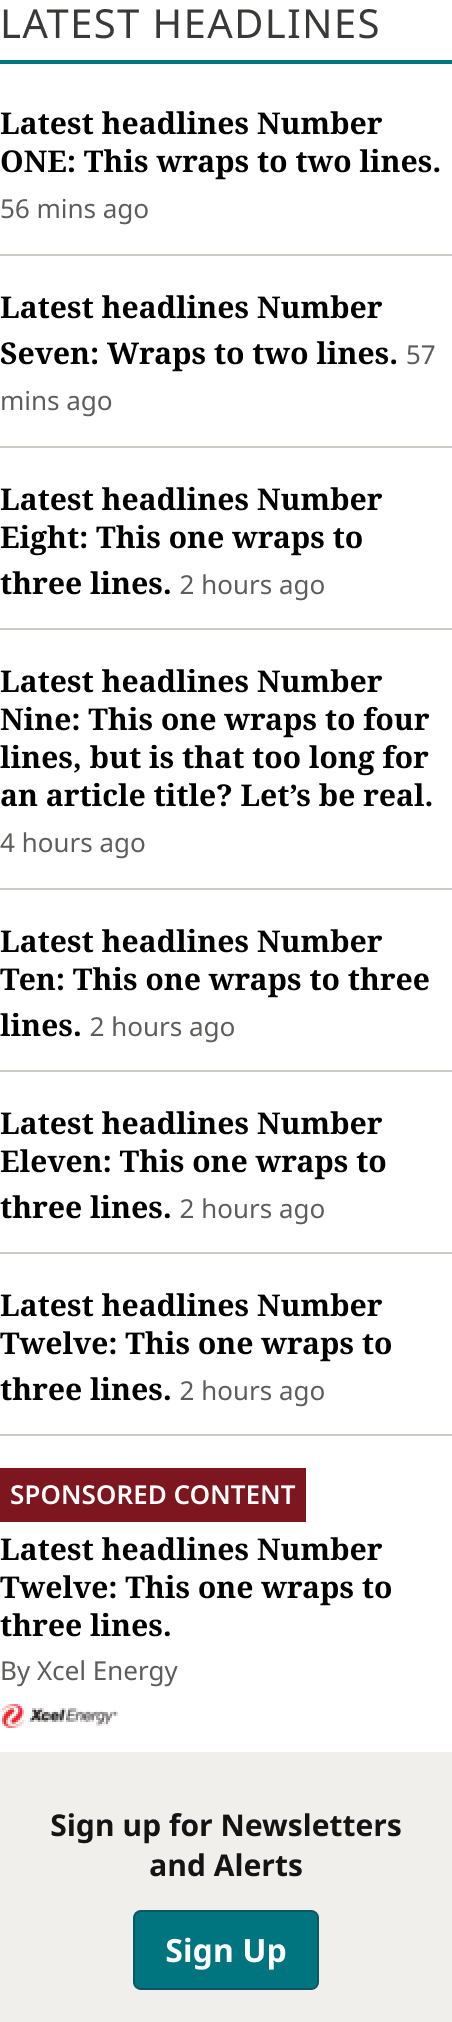
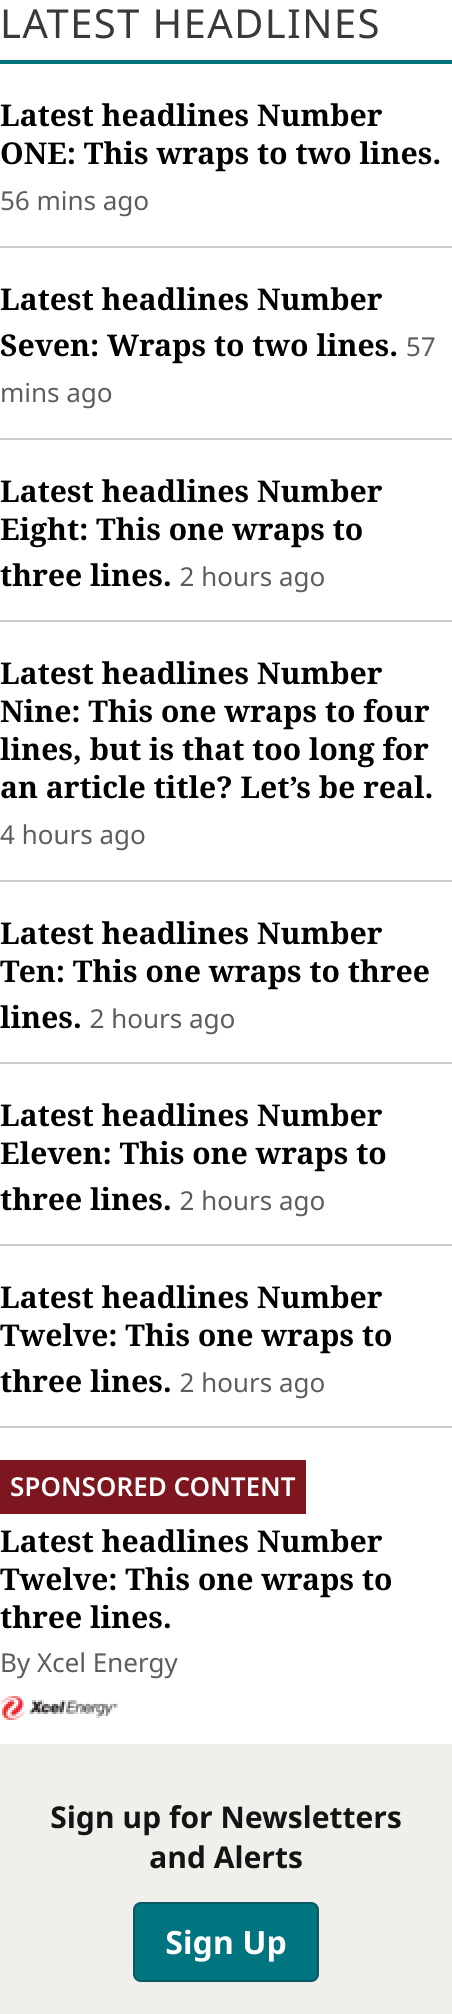
Latest Headlines title gap 16px; components match production on the 4/8 grid
Karl: the title-to-list gap is 16px (spacing/200) on every theme
(production 15 / 17 / 21 by theme, logged in design-vs-production 16.5
and the sheet). CLAUDE.md: components match production, rounded to the
nearest multiple of 4 / 8 and its token (replaces the 2026-10-23
rounding rule); spacing tokens are multiples of 4 and 8. Latest
Headlines re-exported; Claude component notes updated.

Claude-Session: https://claude.ai/code/session_012ti5sVuE9hNj6t6sDLfDhM

diff --git a/components/wordpress/latest-headlines/latest-headlines.html b/components/wordpress/latest-headlines/latest-headlines.html
@@ -17,10 +17,10 @@
 <h1>Latest Headlines</h1>
 <p class="mng-intro">Every variant of the Figma set <code>Latest Headlines</code>. Theme: Bold Coastal (swap the theme stylesheet to preview another theme). Icons are placeholders.</p>
 <section class="mng-variant" data-variant="XS (≤639px)">
-  <h2>XS (≤639px) <small>340×833 · <a href="https://www.figma.com/design/b1iZxkFwtAYq9rElmnCAzd/?node-id=3476-62139">Figma 3476:62139</a></small></h2>
+  <h2>XS (≤639px) <small>340×829 · <a href="https://www.figma.com/design/b1iZxkFwtAYq9rElmnCAzd/?node-id=3476-62139">Figma 3476:62139</a></small></h2>
   <div class="mng-variant__stage">
     <div class="mng-latest-headlines__device-xs-639px" data-layer="Device=XS (≤639px)" style="display:flex;flex-direction:column;gap:0px;padding:0px 0px 0px 0px;justify-content:flex-start;align-items:flex-start;width:340px;background:var(--mng-color-gray-max, #ffffff)">
-      <div class="mng-latest-headlines__header-container" data-layer="Header Container" style="display:flex;flex-direction:column;gap:var(--mng-spacing-100, 8px);padding:0px 0px var(--mng-font-theme-eyebrow-size, 20px) 0px;justify-content:flex-start;align-items:flex-start;align-self:stretch;background:var(--mng-color-gray-max, #ffffff)">
+      <div class="mng-latest-headlines__header-container" data-layer="Header Container" style="display:flex;flex-direction:column;gap:var(--mng-spacing-100, 8px);padding:0px 0px var(--mng-spacing-200, 16px) 0px;justify-content:flex-start;align-items:flex-start;align-self:stretch;background:var(--mng-color-gray-max, #ffffff)">
         <!-- instance of Section Title / Eyebrow (Style=Underline), Figma node 3326:41622 -->
         <span class="mng-instance mng-latest-headlines__section-title-eyebrow" data-component="Section Title / Eyebrow" data-variant="Style=Underline" aria-hidden="true" style="display:flex;flex-direction:column;gap:var(--mng-spacing-100, 8px);padding:0px 0px 0px 0px;justify-content:flex-start;align-items:flex-start;align-self:stretch;height:32px;flex-shrink:0;display:inline-flex;align-items:center;justify-content:center;font-size:32px;color:var(--mng-color-gray-100, #393938)">◻</span>
       </div>
@@ -48,10 +48,10 @@
   </div>
 </section>
 <section class="mng-variant" data-variant="S (640–799px)">
-  <h2>S (640–799px) <small>748×669 · <a href="https://www.figma.com/design/b1iZxkFwtAYq9rElmnCAzd/?node-id=3476-62152">Figma 3476:62152</a></small></h2>
+  <h2>S (640–799px) <small>748×665 · <a href="https://www.figma.com/design/b1iZxkFwtAYq9rElmnCAzd/?node-id=3476-62152">Figma 3476:62152</a></small></h2>
   <div class="mng-variant__stage">
     <div class="mng-latest-headlines__device-s-640-799px" data-layer="Device=S (640–799px)" style="display:flex;flex-direction:column;gap:0px;padding:0px 0px 0px 0px;justify-content:flex-start;align-items:flex-start;width:748px;background:var(--mng-color-gray-max, #ffffff)">
-      <div class="mng-latest-headlines__header-container" data-layer="Header Container" style="display:flex;flex-direction:column;gap:var(--mng-spacing-100, 8px);padding:0px 0px var(--mng-font-theme-eyebrow-size, 20px) 0px;justify-content:flex-start;align-items:flex-start;align-self:stretch;background:var(--mng-color-gray-max, #ffffff)">
+      <div class="mng-latest-headlines__header-container" data-layer="Header Container" style="display:flex;flex-direction:column;gap:var(--mng-spacing-100, 8px);padding:0px 0px var(--mng-spacing-200, 16px) 0px;justify-content:flex-start;align-items:flex-start;align-self:stretch;background:var(--mng-color-gray-max, #ffffff)">
         <!-- instance of Section Title / Eyebrow (Style=Underline), Figma node 3326:41622 -->
         <span class="mng-instance mng-latest-headlines__section-title-eyebrow" data-component="Section Title / Eyebrow" data-variant="Style=Underline" aria-hidden="true" style="display:flex;flex-direction:column;gap:var(--mng-spacing-100, 8px);padding:0px 0px 0px 0px;justify-content:flex-start;align-items:flex-start;align-self:stretch;height:32px;flex-shrink:0;display:inline-flex;align-items:center;justify-content:center;font-size:32px;color:var(--mng-color-gray-100, #393938)">◻</span>
       </div>
@@ -79,10 +79,10 @@
   </div>
 </section>
 <section class="mng-variant" data-variant="(≥800px)">
-  <h2>(≥800px) <small>226×1011 · <a href="https://www.figma.com/design/b1iZxkFwtAYq9rElmnCAzd/?node-id=3476-62164">Figma 3476:62164</a></small></h2>
+  <h2>(≥800px) <small>226×1007 · <a href="https://www.figma.com/design/b1iZxkFwtAYq9rElmnCAzd/?node-id=3476-62164">Figma 3476:62164</a></small></h2>
   <div class="mng-variant__stage">
     <div class="mng-latest-headlines__device-800px" data-layer="Device=(≥800px)" style="display:flex;flex-direction:column;gap:0px;padding:0px 0px 0px 0px;justify-content:flex-start;align-items:flex-start;width:226px;background:var(--mng-color-gray-max, #ffffff)">
-      <div class="mng-latest-headlines__header-container" data-layer="Header Container" style="display:flex;flex-direction:column;gap:0px;padding:0px 0px var(--mng-font-theme-eyebrow-size, 20px) 0px;justify-content:flex-start;align-items:flex-start;align-self:stretch;overflow:hidden">
+      <div class="mng-latest-headlines__header-container" data-layer="Header Container" style="display:flex;flex-direction:column;gap:0px;padding:0px 0px var(--mng-spacing-200, 16px) 0px;justify-content:flex-start;align-items:flex-start;align-self:stretch;overflow:hidden">
         <!-- instance of Section Title / Eyebrow (Style=Underline), Figma node 3326:41622 -->
         <span class="mng-instance mng-latest-headlines__section-title-eyebrow" data-component="Section Title / Eyebrow" data-variant="Style=Underline" aria-hidden="true" style="display:flex;flex-direction:column;gap:var(--mng-spacing-100, 8px);padding:0px 0px 0px 0px;justify-content:flex-start;align-items:flex-start;align-self:stretch;height:32px;flex-shrink:0;display:inline-flex;align-items:center;justify-content:center;font-size:32px;color:var(--mng-color-gray-100, #393938)">◻</span>
       </div>

diff --git a/scripts/claude-design-system/src/components/LatestHeadlines/component.js b/scripts/claude-design-system/src/components/LatestHeadlines/component.js
@@ -1,7 +1,7 @@
 /* Latest Headlines (WordPress Elements, Homepage, 3476:62396): the Zone 1 Latest Headlines rail, built to match production
    (`.busy .headline-list`, Karl 2026-10-30). Section Title / Eyebrow (Underline, no chevron), then a ul of Latest Headlines
    List Items (First, Standard..., Sponsored) and Newsletter Signup, 12px (spacing/150) apart. Title to the first item is
-   font/theme/eyebrow-size. One column at every width; Device only sets production's XS cap (540px, centered).
+   16px (spacing/200). One column at every width; Device only sets production's XS cap (540px, centered).
    Device values are production's breakpoints for this list: XS (639px and below), S (640-799px), (≥800px) (the side column
    beside the Zone 1 lead). Newsletter Signup is drawn by NewsletterSignup once it is in the system; until then a labeled
    placeholder holds its place. */

diff --git a/scripts/claude-design-system/src/components/LatestHeadlines/component.css b/scripts/claude-design-system/src/components/LatestHeadlines/component.css
@@ -7,7 +7,7 @@
 .mngds-latest-headlines *, .mngds-latest-headlines *::before, .mngds-latest-headlines *::after { box-sizing: border-box; }
 /* XS (639px and below): production caps the list at 33.75em (540px) and centers it. No token for this width. */
 .mngds-latest-headlines--xs { max-width: 540px; margin-left: auto; margin-right: auto; }
-/* Title to the first item = the theme's eyebrow size (15 / 17 / 21 in production; the token gives Bold Coastal 20). */
+/* Title to the first item: 16px (spacing/200) on every theme (production 15 / 17 / 21 by theme; Karl, 2026-10-30). */
 .mngds-latest-headlines__header {
   background: var(--mng-latest-headlines-base-header-container-background);
   padding-bottom: var(--mng-latest-headlines-base-header-container-padding-bottom);

diff --git a/MNG-Web-Design-System-Status.md b/MNG-Web-Design-System-Status.md
@@ -183,7 +183,7 @@ The component specs in `components/` (modal, disclosure, empty-state-status-badg
    - **P2, TopZone Article Card done 2026-10-30:** Figma: the unbound 8 / 16 / 20px spacing bound to `spacing/100`, `200`, `250`; the 15px headline-group gap **kept raw on purpose** (Karl, 2026-10-30: no token for it; it only shows when the Article Status Badge is on); the Mobile headline's family bound to `font/theme/heading-family`; white container updated (description, 1024 / 1100 column labels, Specifications). Exported to `components/wordpress/topzone-article-card/`; `TopZoneArticleCard` in Claude. Flags: (h) the Device values (Desktop, 1024, 1100, Mobile) aren't the official breakpoints and Figma doesn't say which viewport each applies at; (i) the Article Status Badge is hidden in every variant with no property to show it (Desktop / 1024 hold Type = Sponsored outside the headline group, Mobile / 1100 Type = None inside it).
    - **Decided ahead (Karl, 2026-10-30):** Newsletter Signup's 10px padding above and below the heading (Heading Container on Desktop, Text Container on Mobile; a tie between 8 and 12) stays raw. Latest Headlines and its list item have no off-token values.
    - **Breakpoints decided (Karl, 2026-10-30):** components keep production's own breakpoints for now, documented as they are (not snapped, not drift); `Device` values are named by the range they cover (grid letter when it's exactly a grid tier, e.g. `M (800–1039px)`); each component's breakpoint table also records the MNG Device breakpoint each range will move to later (not adopted yet). Rules in `CLAUDE.md`; `EXPORT-STANDARD.md` §6 change in a pull request for Karl. First applied to the TopZone Article Card (Desktop / 1024 / 1100 / Mobile renamed XL / M / L / XS; production also has a 640–799px layout with no variant, and its L image is 25% in CSS vs 55% in Figma, not measured live). Existing sets (Masthead family, cards, blocks) get renamed when we come back to them (Karl, 2026-10-30). **All production breakpoints are now in one place** (Karl): `components/breakpoint-audit.md`, "All production breakpoints in one place"; drift doc entries 8, 27 and 34 moved there (numbers kept as pointers, sheet rows say Moved). `tokens/breakpoint-inventory.json` still tags those values `drift`; reclassify when standardization starts. **TopZone S variant added 2026-10-30** (Karl): measured live on ocregister.com at 700px (Karl resized the window): two per row, card 330, image 97×54, 20px gap, 16/18.88, bottom rule; built in Figma, exported, in Claude (`device: 'S'`). The L check at 1100px matched Figma (280×157, 20px, 18/21.6). Production differences logged as design-vs-production 16.4 (headline #000000, S rule #AAA7A4, photos letterboxed at their own proportions; sheet row added).
-   - **P2, Latest Headlines + Latest Headlines List Item done 2026-10-30.** **Karl's rule for these (2026-10-30): components in Figma, and so in Claude, match production; where a value has a token, use the nearest existing token (the rounding rule stays).** Checked on all 6 review sites (CSS + computed styles at 1728px; ocregister.com at 700px, Karl resized the window). Figma: the S variant's items and Newsletter Signup now fill the 748 frame (were stuck at 340); title-to-list gap = `font/theme/eyebrow-size` (production 17 / 21 on Measured Vibrant / Modern Earthy; 15 on Bold Coastal, logged); items in a `List` frame 12px (`spacing/150`) apart; the time now sits inline after the headline in one "Headline and Time" text layer (all 98 instances re-filled with their own text); `Editorial/Titles/AdditionalHeadline` bound to `font/theme/heading-family` with a 19px line height (also used by 39 Section Front template layers); headline `color/gray/black`; unbound 4 / 8 / 12 / 16px bound to spacing tokens; Device renamed `XS (≤639px)`, `S (640–799px)`, `(≥800px)`; containers updated (description, column labels, Specifications). Production's headline CSS weight 600 renders Bold (only the 400 and 700 faces load), so Bold stays. Exported to `components/wordpress/latest-headlines/` and `latest-headlines-list-item/`; `LatestHeadlines` and `LatestHeadlinesListItem` in Claude (Newsletter Signup is a labeled placeholder there until step 3; it switches automatically once `NewsletterSignup` exists). Breakpoints added to `components/breakpoint-audit.md`. Still different in production: design-vs-production 16.5 (Bold Coastal title gap, per-theme rule color, CSS weight), sheet row added. chicagotribune.com was reachable in Chrome this time.
+   - **P2, Latest Headlines + Latest Headlines List Item done 2026-10-30.** **Karl's rule (2026-10-30, now in CLAUDE.md): components in Figma, and so in Claude, match production, rounded to the nearest multiple of 4 / 8 and its token; spacing tokens are multiples of 4 and 8.** Checked on all 6 review sites (CSS + computed styles at 1728px; ocregister.com at 700px, Karl resized the window). Figma: the S variant's items and Newsletter Signup now fill the 748 frame (were stuck at 340); title-to-list gap 16px (`spacing/200`) on every theme (production 15 / 17 / 21 by theme, logged; Karl); items in a `List` frame 12px (`spacing/150`) apart; the time now sits inline after the headline in one "Headline and Time" text layer (all 98 instances re-filled with their own text); `Editorial/Titles/AdditionalHeadline` bound to `font/theme/heading-family` with a 19px line height (also used by 39 Section Front template layers); headline `color/gray/black`; unbound 4 / 8 / 12 / 16px bound to spacing tokens; Device renamed `XS (≤639px)`, `S (640–799px)`, `(≥800px)`; containers updated (description, column labels, Specifications). Production's headline CSS weight 600 renders Bold (only the 400 and 700 faces load), so Bold stays. Exported to `components/wordpress/latest-headlines/` and `latest-headlines-list-item/`; `LatestHeadlines` and `LatestHeadlinesListItem` in Claude (Newsletter Signup is a labeled placeholder there until step 3; it switches automatically once `NewsletterSignup` exists). Breakpoints added to `components/breakpoint-audit.md`. Still different in production: design-vs-production 16.5 (title gap 15 / 17 / 21 vs 16, per-theme rule color, CSS weight), sheet row added. chicagotribune.com was reachable in Chrome this time.
    - **Next:** P2: Newsletter Signup, Most Popular List Item + Blueconic Block, Section Rail Card + Feature + List Content Block, Photos Block, TOP ZONE Block.
 
 20. **Theme fonts on the article cards** (Karl, 2026-10-30, from the For You MVP's theme switcher). The three themes differ in fonts only here: `font/theme/heading-family` and `body-family` (Noto Serif / Noto Sans in Bold Coastal and Measured Vibrant, swapped in Modern Earthy), `small-headline-family` (Noto Serif only in Measured Vibrant) and the eyebrow. So between Bold Coastal and Measured Vibrant only the eyebrow and the small headlines change; Modern Earthy changes headlines and excerpts.

diff --git a/components/wordpress/latest-headlines/latest-headlines.md b/components/wordpress/latest-headlines/latest-headlines.md
@@ -32,16 +32,16 @@ exported: 2026-10-30
 
 | Variant | Size | Node | Instances | Preview |
 |---|---|---|---|---|
-| `XS (≤639px)` | 340×833 | [3476:62139](https://www.figma.com/design/b1iZxkFwtAYq9rElmnCAzd/?node-id=3476-62139) | 3 | ![](previews/latest-headlines--xs-639px.png) |
-| `S (640–799px)` | 748×669 | [3476:62152](https://www.figma.com/design/b1iZxkFwtAYq9rElmnCAzd/?node-id=3476-62152) | 2 | ![](previews/latest-headlines--s-640-799px.png) |
-| `(≥800px)` | 226×1011 | [3476:62164](https://www.figma.com/design/b1iZxkFwtAYq9rElmnCAzd/?node-id=3476-62164) | 6 | ![](previews/latest-headlines--800px.png) |
+| `XS (≤639px)` | 340×829 | [3476:62139](https://www.figma.com/design/b1iZxkFwtAYq9rElmnCAzd/?node-id=3476-62139) | 3 | ![](previews/latest-headlines--xs-639px.png) |
+| `S (640–799px)` | 748×665 | [3476:62152](https://www.figma.com/design/b1iZxkFwtAYq9rElmnCAzd/?node-id=3476-62152) | 2 | ![](previews/latest-headlines--s-640-799px.png) |
+| `(≥800px)` | 226×1007 | [3476:62164](https://www.figma.com/design/b1iZxkFwtAYq9rElmnCAzd/?node-id=3476-62164) | 6 | ![](previews/latest-headlines--800px.png) |
 
 ## Anatomy
 
 Default variant `XS (≤639px)` (hidden layers marked):
 
-- **Device=XS (≤639px)** `COMPONENT`: 340×833, vertical, gap 0, padding 0/0/0/0, fixed×hug
-  - **Header Container** `FRAME`: 340×52, vertical, gap 8, padding 0/0/20/0, fill×hug
+- **Device=XS (≤639px)** `COMPONENT`: 340×829, vertical, gap 0, padding 0/0/0/0, fixed×hug
+  - **Header Container** `FRAME`: 340×48, vertical, gap 8, padding 0/0/16/0, fill×hug
     - **Section Title / Eyebrow** `INSTANCE`: 340×32, vertical, gap 8, padding 0/0/0/0, fill×hug, instance of Section Title / Eyebrow (Style=Underline)
   - **List** `FRAME`: 340×781, vertical, gap 12, padding 0/0/0/0, fill×hug
     - **Latest Headlines List Item** `INSTANCE`: 340×44, vertical, gap 4, padding 0/0/0/0, fill×hug, instance of Latest Headlines List Item (Type=First)
@@ -61,7 +61,7 @@ From `latest-headlines.tokens.json`. References point at system tokens (`tokens/
 | Token | Value |
 |---|---|
 | `latest-headlines.base.header-container.background` | `{color.gray.max}` |
-| `latest-headlines.base.header-container.padding-bottom` | `{font.theme.eyebrow-size}` |
+| `latest-headlines.base.header-container.padding-bottom` | `{spacing.200}` |
 | `latest-headlines.base.header-container.section-title-eyebrow.height` | 32px |
 | `latest-headlines.base.header-container.section-title-eyebrow.icon-color` | `{color.gray.100}` |
 | `latest-headlines.base.list.gap` | `{spacing.150}` |
@@ -95,12 +95,12 @@ From `latest-headlines.tokens.json`. References point at system tokens (`tokens/
 | (≥800px), L (1040–1279px) | `wordpress-grid.l` | Side column, 30.77% − 13.92px | 226px (TOP ZONE Block 219) | Tablet landscape (1024–1279) |
 | (≥800px), XL (≥1280px) | `wordpress-grid.xl` | Side column, 25% − 15px (224px) | 226px | Desktop (1280 and up) |
 
-- **Matches production** (Karl, 2026-10-30: components match production; where a value has a token, use the nearest existing token). CSS and live measurements on all 6 review sites 2026-10-30.
+- **Matches production** (Karl, 2026-10-30: components match production, rounded to the nearest multiple of 4 / 8 and its token). CSS and live measurements on all 6 review sites 2026-10-30.
 - **Breakpoints are production's, for this component** (Karl, 2026-10-30): each Device value is named by the range it covers (`XS (≤639px)`, `S (640–799px)`, `(≥800px)`); the width a variant is drawn at is a note, not a breakpoint. The list is one column at every width. Production CSS `.busy .headline-list` at 640 / 800 / 1040 / 1280px, the same on all 6 review sites (scan 2026-10-30, `components/breakpoint-audit.md`).
 - **XS** (639px and below, built 340): full width of the page. Production caps it at 540px (33.75em) and centers it.
 - **S** (640–799px, built 748): full width of the column. The items and Newsletter Signup fill the variant (fixed 2026-10-30, Karl: they were stuck at 340), as production does (680px wide on ocregister.com at a 700px window).
 - **(≥800px)** (built 226): the side column beside the Zone 1 lead. Production width `calc(40% - 0.75rem)` at 800–1039, `calc(30.7692% - 0.87rem)` at 1040–1279 and `calc(25% - 0.94rem)` at 1280 and up (224px). TOP ZONE Block draws it at 252 (1024) and 219 (1100). Everything inside fills the width.
-- **Title:** Section Title / Eyebrow, Style = Underline. Title to the first item is `font/theme/eyebrow-size`, the Header Container's bottom padding (Karl, 2026-10-30: nearest existing token). Production uses `margin-bottom` on the title: 17px on Measured Vibrant and 21px on Modern Earthy (1em, which the token matches) but 15px on Bold Coastal, where the token gives 20 (design-vs-production 16.5). Figma draws Bold Coastal's 20. Before 2026-10-30 Figma had 16px (XS, S) and 12px (≥800).
+- **Title:** Section Title / Eyebrow, Style = Underline. Title to the first item is 16px (`spacing/200`), the Header Container's bottom padding (Karl, 2026-10-30): production uses the title's `margin-bottom`, measured 15px on Bold Coastal, 17px on Measured Vibrant and 21px on Modern Earthy; 16 is the nearest multiple of 4 / 8 with a token (design-vs-production 16.5). Before 2026-10-30 Figma had 16px (XS, S) and 12px (≥800).
 - **List:** 12px (`spacing/150`) between the items and before Newsletter Signup (the `List` frame); Standard and Sponsored items draw their own top rule. Production: `margin-top: 12px` on every `li` after the first.
 - **Contrast** is in the parts: headline 21:1 and time 6.6:1 (Latest Headlines List Item), eyebrow `color/gray/100` 11.6:1 (Section Title / Eyebrow).
 
@@ -127,7 +127,7 @@ Production homepage Zone 1 `.feature-primary.busy .headline-list` (`div.headline
 
 1. One variant, `(≥800px)`, covers three production ranges whose only difference is the column width (the list is the same).
 2. Below 640px production caps the list at 540px; the XS variant is drawn at 340.
-3. Bold Coastal: production's title-to-list gap is 15px; `font/theme/eyebrow-size` gives 20 (design-vs-production 16.5).
+3. Production's title-to-list gap is 15 / 17 / 21px by theme; the design is 16px (`spacing/200`) on every theme (design-vs-production 16.5).
 4. Newsletter Signup instances keep their component's fixed 135px height (next in the P2 list).
 5. The eyebrow's production color and underline differ (design-vs-production 14).
 6. **Values not bound to a token** (literal in the component tokens): `base` list.latest-headlines-list-item icon-color = #7d161e.

diff --git a/CLAUDE.md b/CLAUDE.md
@@ -1,6 +1,6 @@
 # MNG Web Design System — instructions for Claude
 
-> **Updated 2026-10-30** for component breakpoints (follow production for now, record the future Device breakpoint; Exports) and the Weather Bug Helvetica exception (Figma files). **2026-10-27** for Seth's issue #7 (Exports: Figma snapshot, checks, colors stay as of 2026-10-19, CRUX). **2026-10-23:** moved here from the Claude project instructions and merged with section 7 ("Standing rules") of `MNG-Web-Design-System-Status.md`, so the rules live in one place, in the repo. This file is the source of truth for how to work in this project. Change a rule here; the project instructions only point to this file.
+> **Updated 2026-10-30 (latest)** for components matching production on the 4 / 8 grid and spacing tokens in multiples of 4 and 8 (Design vs. production). **Earlier, 2026-10-30,** for component breakpoints (follow production for now, record the future Device breakpoint; Exports) and the Weather Bug Helvetica exception (Figma files). **2026-10-27** for Seth's issue #7 (Exports: Figma snapshot, checks, colors stay as of 2026-10-19, CRUX). **2026-10-23:** moved here from the Claude project instructions and merged with section 7 ("Standing rules") of `MNG-Web-Design-System-Status.md`, so the rules live in one place, in the repo. This file is the source of truth for how to work in this project. Change a rule here; the project instructions only point to this file.
 
 We are building a full design system based on in-production websites in our footprint.
 
@@ -49,7 +49,8 @@ We are building a full design system based on in-production websites in our foot
 ## Design vs. production
 
 - Design (Figma) is the source of truth. Tokens always carry design spec values. Never change a token to match production. Mark the gap in Figma with the red-dashed outline and log it in `design-vs-production.md`.
-- No off-token values in new components (Karl, 2026-10-23). When production uses a value that has no token (spacing, letter spacing and so on; breakpoints are the exception, see Exports), round it to the nearest existing Figma token, and log the production value in `design-vs-production.md` so production can be updated to match. On a tie, ask Karl.
+- **Components match production, on the 4 / 8 grid** (Karl, 2026-10-30; replaces the 2026-10-23 rounding rule). Build each component's values to match production (checked on all 6 review sites). When a production value isn't a multiple of 4 (spacing, padding, gaps, sizes and so on; breakpoints are the exception, see Exports), round it to the nearest multiple of 4 or 8 and use that value's token; log the production value in `design-vs-production.md` so production can be updated to match. Example: the Latest Headlines title gap is 15 / 17 / 21px by theme in production and 16px (`spacing/200`) in the design. On a tie (10px is as close to 8 as to 12), ask Karl. Values that already have a decided exception stay as decided (TopZone's 15px headline-group gap, Newsletter Signup's 10px heading padding).
+- **Spacing tokens are multiples of 4 and 8** (Karl, 2026-10-30): today `spacing/050` 4 through `spacing/500` 40. A component that needs a multiple of 4 with no token yet gets a new token (a value change: `review/...` branch and pull request), never a raw value.
 - Colors: use the closest existing MNG color or gray. Text must pass WCAG AA (4.5:1); if the closest gray doesn't, use the closest one that does.
 - Always check contrast (Karl, 2026-10-27; narrowed the same day). It applies to what ships: designed components, color tokens and the style guides that show them. It does not apply to documentation annotations (spec-list text, the green / magenta spec colors, markers, row and column labels in doc containers). Whenever you add or change text, or a color behind text, in a component, a color token or a style guide, in Figma or in code, compute the WCAG contrast ratio before you finish and report it. Normal text needs 4.5:1; large text (24px+, or 18.66px+ bold) needs 3:1. Measure against the nearest solid background actually behind the text. Text on a color chip uses Gray-Min (`color/gray/min`) or Gray-Max (`color/gray/max`), whichever passes; if neither passes, use `color/gray/black`. Bind text fills to the gray variables, never raw hex. If a color you're documenting can't pass with any gray, flag it to Karl.
 - Karl calls `design-vs-production.md` "the drift doc" (2026-10-27); the file name stays.

diff --git a/design-vs-production.md b/design-vs-production.md
@@ -1534,20 +1534,20 @@ Sizes, gaps and type otherwise match Figma at both widths (L: 507 card, 280×157
 
 **Status:** Open. Added 2026-10-30.
 
-### 16.5 Latest Headlines (Zone 1 headline list) — title gap on Bold Coastal, rule color and headline weight
+### 16.5 Latest Headlines (Zone 1 headline list) — title gap, rule color and headline weight
 
 **Found:** 2026-10-30, CSS and computed styles on all 6 review sites at 1728px, and on ocregister.com at 700px (Karl resized the window). The `.busy .headline-list` rules are identical on all 6. **Team:** CMS. Figma: WordPress Elements ▸ Homepage ▸ Latest Headlines (`3476:62396`) and Latest Headlines List Item (`3336:46118`).
 
-**Design:** built to match production (Karl, 2026-10-30), with the nearest existing token where one exists. Figma was changed the same day: time inline after the headline, headline 15 / 19px in `color/gray/black`, the S (640–799px) variant full width, title-to-list gap `font/theme/eyebrow-size`.
+**Design:** built to match production (Karl, 2026-10-30), with values rounded to the nearest multiple of 4 / 8 and its token. Figma was changed the same day: time inline after the headline, headline 15 / 19px in `color/gray/black`, the S (640–799px) variant full width, title-to-list gap 16px (`spacing/200`) on every theme.
 
 **Production (still different):**
-- **Title to the first item, Bold Coastal:** `margin-bottom: 15px` on the 20px title (ocregister, denverpost). The design is `font/theme/eyebrow-size` (20px on Bold Coastal); Measured Vibrant (17px) and Modern Earthy (21px) already match.
+- **Title to the first item:** the title's `margin-bottom` is 15px on Bold Coastal (ocregister, denverpost), 17px on Measured Vibrant (chicagotribune, orlandosentinel) and 21px on Modern Earthy (mcall, canoncitydailyrecord). The design is 16px (`spacing/200`) on every theme.
 - **Rule between items:** #D7D6D2 (Bold Coastal), #C8C4C0 (Measured Vibrant), #DDD8D5 (Modern Earthy). The design is `color/gray/500` (#CCCAC7). The Bold Coastal value is also entry 3 (`--site-branding-gray-500`).
 - **Headline weight:** CSS `font-weight: 600`, but the sites load only the 400 and 700 faces of Noto Sans and Noto Serif, so it renders Bold. The design is Bold (`font/weight/bold`).
 
 Everything else matches: one column at every width (capped at 540px below 640px, full width at 640–799px, a 40% / 30.77% / 25% side column from 800px), 12px between items, 1px top rule with 16px below it, headline 15 / 19px #000000 in the theme heading family, time Noto Sans 13 #5D5B5A inline after the headline.
 
-**Fix:** set the Bold Coastal title margin to the eyebrow size (20px) or confirm 15px is intended; set the rule to `color/gray/500`; set the headline weight to 700 (or load a 600 face and confirm the lighter weight is wanted).
+**Fix:** set `.headline-list-title` `margin-bottom` to 16px on every theme; set the rule to `color/gray/500`; set the headline weight to 700 (or load a 600 face and confirm the lighter weight is wanted).
 
 **Status:** Open. Added 2026-10-30.
 

diff --git a/scripts/claude-design-system/src/components/LatestHeadlines/notes.md b/scripts/claude-design-system/src/components/LatestHeadlines/notes.md
@@ -1,6 +1,6 @@
-- **Built to match production** (Karl, 2026-10-30): CSS `.busy .headline-list` and live measurements on all 6 review sites. One column at every width; only the width changes: full width capped at 540px below 640px, full width at 640–799px, and a side column (40% / 30.77% / 25% of the row) from 800px. Figma's S variant was fixed the same day: its items and Newsletter Signup were stuck at 340 inside a 748 frame.
+- **Built to match production** (Karl, 2026-10-30; values rounded to the nearest multiple of 4 / 8 and its token): CSS `.busy .headline-list` and live measurements on all 6 review sites. One column at every width; only the width changes: full width capped at 540px below 640px, full width at 640–799px, and a side column (40% / 30.77% / 25% of the row) from 800px. Figma's S variant was fixed the same day: its items and Newsletter Signup were stuck at 340 inside a 748 frame.
 - **Device values are production's breakpoints for this list** (Karl, 2026-10-30): `XS (≤639px)`, `S (640–799px)` and `(≥800px)`, which covers three production ranges that differ only in column width. Future: these move to the MNG Device breakpoints (XS → Mobile, S between Mobile and Tablet, (≥800px) → Tablet / Tablet landscape / Desktop) when the system is standardized; not adopted yet.
-- **Title to the first item** is `font/theme/eyebrow-size` (Karl, 2026-10-30: nearest existing token). Production uses the title's `margin-bottom`: 17px on Measured Vibrant and 21px on Modern Earthy (the token matches) but 15px on Bold Coastal, where the token gives 20 (design-vs-production 16.5).
+- **Title to the first item** is 16px (`spacing/200`) on every theme (Karl, 2026-10-30: production rounded to the nearest multiple of 4 / 8). Production uses the title's `margin-bottom`: 15px on Bold Coastal, 17px on Measured Vibrant, 21px on Modern Earthy (design-vs-production 16.5).
 - **12px (`spacing/150`) between items**, and before Newsletter Signup, as in production (`margin-top: 12px` on every `li` after the first).
 - **Newsletter Signup** isn't in the system yet (next in the For You list): a magenta placeholder with its Figma name and node holds its 135px place. Once `NewsletterSignup` is built, this rail draws it automatically. Pass `newsletter` to put your own node there, or `showNewsletter: false` for the subscriber view.
 - The title is Section Title / Eyebrow, Style = Underline, with no chevron (as in Figma); its production color and underline differ (design-vs-production 14).

diff --git a/components/for-you-prototype-exports.md b/components/for-you-prototype-exports.md
@@ -30,7 +30,7 @@ These fill the production homepage layout on the Editor's Picks tab. All are in 
 | Component | Figma | Notes | Where it shows | Status |
 | --- | --- | --- | --- | --- |
 | TopZone Article Card | `3336:46079` | 4 cards in a 2×2 grid beside the Zone 1 lead; switches to thumbnail rows below 800px | Zone 1 | **Done 2026-10-30** (`TopZoneArticleCard`; 15px headline gap kept raw; Device renamed to production's ranges XS / S / M / L / XL; S added from production, Karl) |
-| Latest Headlines + Latest Headlines List Item | `3476:62396`, `3336:46118` | 7 items with headline and time, plus a sponsored item; the Section Title / Eyebrow above it is already in the DS | Zone 1, right column | **Done 2026-10-30** (`LatestHeadlines`, `LatestHeadlinesListItem`; built to match production, Karl: time inline after the headline, 15/19 `color/gray/black` headline, S variant full width, title gap `font/theme/eyebrow-size`; Device = `XS (≤639px)`, `S (640–799px)`, `(≥800px)`. Newsletter Signup shows as a placeholder until step 3) |
+| Latest Headlines + Latest Headlines List Item | `3476:62396`, `3336:46118` | 7 items with headline and time, plus a sponsored item; the Section Title / Eyebrow above it is already in the DS | Zone 1, right column | **Done 2026-10-30** (`LatestHeadlines`, `LatestHeadlinesListItem`; built to match production, Karl: time inline after the headline, 15/19 `color/gray/black` headline, S variant full width, title gap 16px (`spacing/200`); Device = `XS (≤639px)`, `S (640–799px)`, `(≥800px)`. Newsletter Signup shows as a placeholder until step 3) |
 | Newsletter Signup | `3336:44765` | Under Latest Headlines (anonymous view). The 10px padding above and below the heading stays raw (Karl, 2026-10-30) | Zone 1 | Not started |
 | Most Popular List Item + Blueconic Block | `3352:24171`, `3352:20526` | 10 numbered items, 2 columns (1 below 640px) | Zone 2 | Not started |
 | Section Rail Card + Feature + List Content Block | `3352:22067`, `3484:66933` | Lead (image, headline, excerpt) + 3 headline list | Zone 3 and Zones 8–12 (6 sections) | Not started |

diff --git a/components/wordpress/latest-headlines-list-item/latest-headlines-list-item.md b/components/wordpress/latest-headlines-list-item/latest-headlines-list-item.md
@@ -89,7 +89,7 @@ From `latest-headlines-list-item.tokens.json`. References point at system tokens
 
 No Breakpoint property: one size at every width.
 
-- **Matches production** (Karl, 2026-10-30: components match production; where a value has a token, use the nearest existing token). Checked on all 6 review sites 2026-10-30.
+- **Matches production** (Karl, 2026-10-30: components match production, rounded to the nearest multiple of 4 / 8 and its token). Checked on all 6 review sites 2026-10-30.
 - **Rule:** First has none. Standard and Sponsored draw a 1px `color/gray/500` rule on top, then 16px (`spacing/200`) to the content. The 12px above the rule belongs to the list (Latest Headlines). Production: `border-top: 1px` with `padding-top: 16px` and `margin-top: 12px` on every item after the first.
 - **Headline:** `Editorial/Titles/AdditionalHeadline`: `font/theme/heading-family` Bold 15 (`font/size/15`), 19px line height (changed from auto 2026-10-30, to match production), `color/gray/black` (was `color/gray/min`) on `color/gray/max`, 21:1. The family follows the theme (style bound 2026-10-30; it was Noto Serif itself): Noto Serif in Bold Coastal and Measured Vibrant, Noto Sans in Modern Earthy, as production renders it. Production's CSS weight is 600, but the sites load only the 400 and 700 faces of Noto Sans and Noto Serif, so it renders Bold; Figma keeps Bold. The style is also used by the Section Front page template (39 text layers), which follows these changes.
 - **Time (First, Standard):** inline right after the headline, in the same text layer (since 2026-10-30, as production does): Noto Sans Regular 13 (`font/size/13`), 23px line height, `color/gray/200`, 6.6:1. It wraps under the headline when the headline's last line is full.
